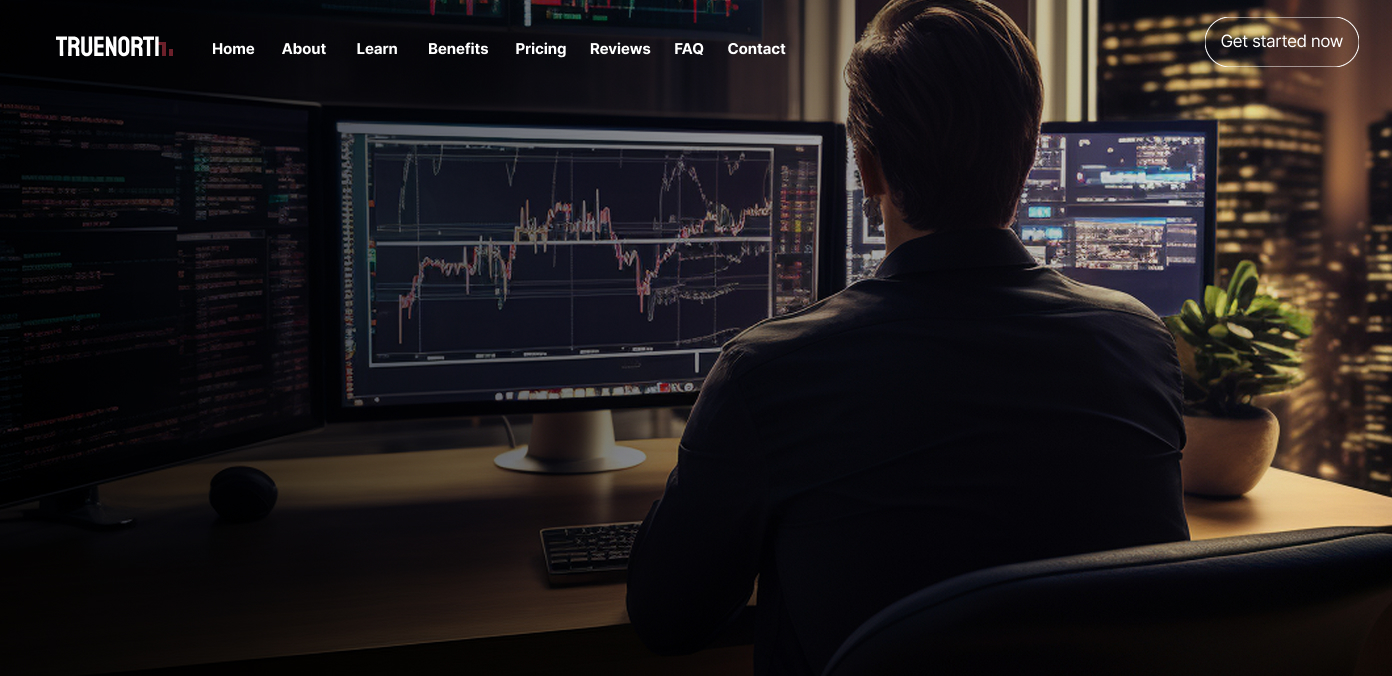
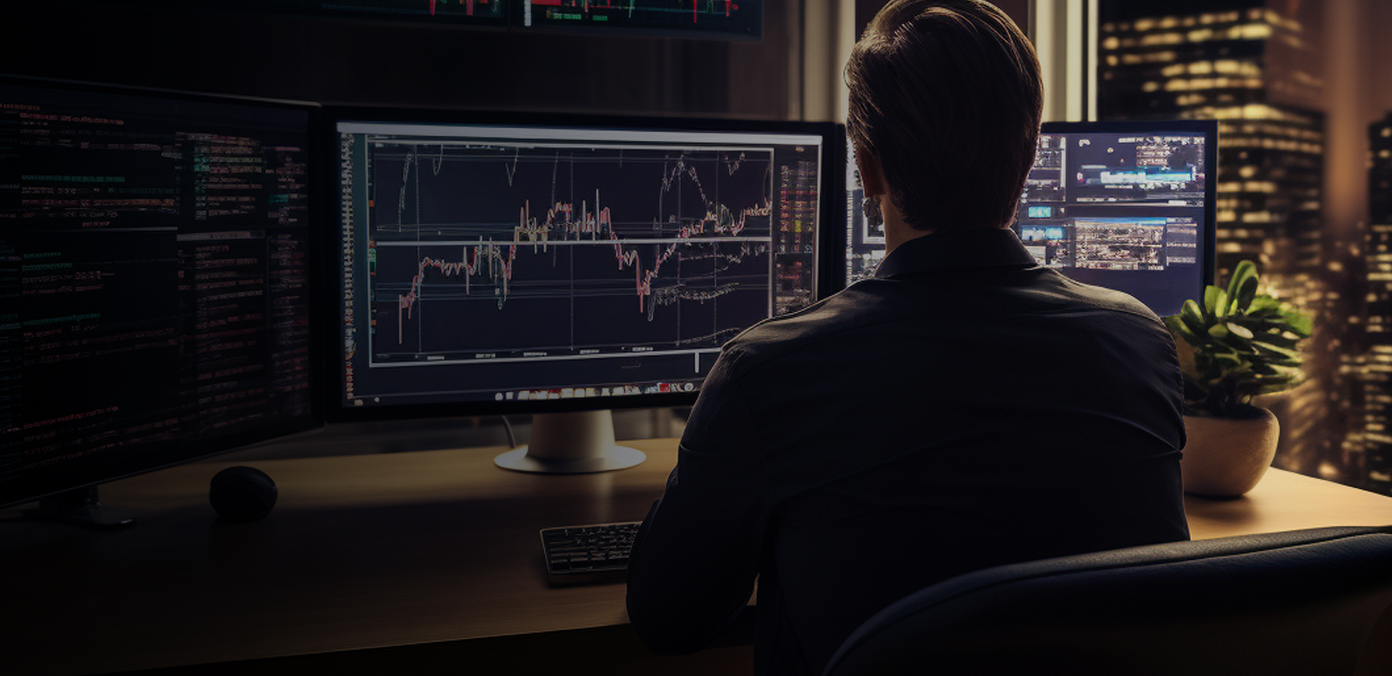
finished header and hero desctop

diff --git a/index.html b/index.html
@@ -25,9 +25,57 @@
 
 <body>
   <header>
-    <div class="container">
+    <div class="header-desc">
+      <div class="container">
+        <div class="header-desc-inner">
+          <div class="header-desc-top">
+            <div class="header-desc-leftside">
+              <img src="images/logo-white.png" alt="logo">
+              <nav class="nav-desc">
+                <ul>
+                  <li><a href="#">Home</a></li>
+                  <li><a href="#about">About</a></li>
+                  <li><a href="#learn">Learn</a></li>
+                  <li><a href="#benefits">Benefits</a></li>
+                  <li><a href="#pricing">Pricing</a></li>
+                  <li><a href="#reviews">Reviews</a></li>
+                  <li><a href="#faq">FAQ</a></li>
+                  <li><a href="#contact">Contact</a></li>
+                </ul>
+              </nav>
+            </div>
 
-      <div class="header-inner">
+            <a href="#contact" class="header-desc-btn">Get started now</a>
+          </div>
+
+          <div class="header-desc-bottom">
+            <h2 class="header-desc-title">Master Trading with<br>Confidence & Clarity</h2>
+            <p class="header-desc-text">Learn how to trade responsibly through expert-led videos and webinars.<br>Purely
+              educational, no financial advice.</p>
+            <a href="#contact" class="header-desc-button" onmouseover="changeImage(this)"
+              onmouseout="restoreImage(this)">
+              <span>Start Learning Now</span>
+              <img src="images/hero/hero-btn-img.png" alt="Start learning button">
+            </a>
+
+
+            <div class="header-desc-bottom-info">
+              <p class="header-desc-bottom-item">
+                🔒Secure Payments via Stripe
+              </p>
+              <p class="header-desc-bottom-item">
+                Canadian-based Company
+              </p>
+              <p class="header-desc-bottom-item">
+                🎯No Advice, Education Only
+              </p>
+            </div>
+          </div>
+        </div>
+      </div>
+    </div>
+    <div class="container">
+      <div class="header-inner-mob">
 
         <nav>
           <img class="logo" src="images/logo.svg" alt="logo">
@@ -63,7 +111,7 @@
     <section class="hero">
       <div class="container">
         <div class="hero-inner">
-          <h2 class="hero-title">Master Trading with Confidence & Clarity</h2>
+          <h2 class="hero-title">Master Trading with<br>Confidence & Clarity</h2>
           <p class="hero-text">Learn how to trade responsibly through expert-led videos and webinars. Purely
             educational, no financial advice.</p>
           <button class="hero-button">
@@ -119,7 +167,7 @@
       </div>
     </section>
 
-    <section class="learn">
+    <section class="learn" id="learn">
       <div class="container">
         <div class="learn-inner">
           <h2>What <span>You'll Learn</span></h2>
@@ -187,7 +235,7 @@
       </div>
     </section>
 
-    <section class="benefits">
+    <section class="benefits" id="benefits">
       <div class="container">
         <div class="benefits-inner">
           <div class="benefits-light-card">
@@ -295,7 +343,7 @@
       </div>
     </section>
 
-    <section class="pricing">
+    <section class="pricing" id="pricing">
       <div class="container">
         <div class="pricing-inner">
           <h2 class="pricing-title">Clear, Transparent Pricing</h2>
@@ -390,7 +438,7 @@
       </div>
     </section>
 
-    <section class="reviews">
+    <section class="reviews" id="reviews">
       <div class="container">
         <div class="reviews-inner">
           <h2 class="reviews-title">Student Testimonials</h2>
@@ -458,7 +506,7 @@
       </div>
     </section>
 
-    <section class="faq">
+    <section class="faq" id="faq">
       <div class="container">
 
         <div class="faq-inner">
@@ -516,7 +564,7 @@
       </div>
     </section>
 
-    <section class="contact">
+    <section class="contact" id="contact">
       <div class="container">
         <div class="contact-inner">
           <div class="contact-top">
@@ -577,7 +625,7 @@
         capital you can afford to lose. We are not a licensed broker or financial advisor.
       </p>
     </div>
-    
+
 
     <div class="footer-links">
       <a href="#" class="footer-link">Privacy Policy</a>

diff --git a/styles.css b/styles.css
@@ -3,6 +3,7 @@
   padding: 0;
   box-sizing: border-box;
   overflow-x: hidden;
+  scroll-behavior: smooth;
 }
 
 body {
@@ -12,10 +13,144 @@ body {
   margin: 0;
 }
 
+
+
 header {
   background-color: #efe9e1;
 
   overflow-x: hidden;
+}
+
+.header-desc-leftside {
+  display: flex;
+  gap: 39px;
+  align-items: center;
+}
+
+.header-desc {
+  padding-top: 17px;
+  display: block;
+  background-image: url(images/Hero.jpg);
+  background-position: center;
+  /* aspect-ratio: 2/1; */
+  padding-bottom: 29px;
+}
+
+.nav-desc {
+  display: flex;
+  align-items: center;
+  background: none;
+
+  padding: 0;
+  margin: 0;
+}
+
+.nav-desc ul {
+  display: flex;
+  align-items: center;
+  gap: 36px;
+  margin: 0;
+}
+.nav-desc a {
+  font-weight: 700;
+  font-size: 15px;
+  color: #ffffff;
+  text-decoration: none;
+}
+
+.header-desc-btn {
+  border: 1px solid #ffffff;
+  border-radius: 40px;
+  color: #ffffff;
+  font-weight: 400;
+  font-size: 17px;
+  text-align: center;
+  padding-block: 16px;
+  width: 154px;
+  text-decoration: none;
+}
+
+.header-desc-btn:hover {
+  background-color: #ff081f2b;
+}
+
+.header-desc-bottom {
+  color: #ffffff;
+  padding-left: 80px;
+}
+.header-desc-title {
+  font-weight: 800;
+  font-size: 70px;
+  margin-bottom: 16px;
+}
+
+.header-desc-text {
+  font-weight: 400;
+  font-size: 19px;
+  margin-bottom: 34px;
+}
+
+.header-desc-button {
+  background-color: #ffffff;
+  width: 260px;
+  display: flex;
+  align-items: center;
+  justify-content: center;
+  gap: 10px;
+  border-radius: 40px;
+  padding-block: 10px;
+  border: none;
+  outline: none;
+
+  font-weight: 400;
+  font-size: 17px;
+  color: #000000;
+  text-decoration: none;
+  margin-bottom: 66px;
+}
+
+.header-desc-button img {
+  width: 24px;
+  height: 24px;
+}
+
+.header-desc-button:hover {
+  color: #ffffff;
+  background-color: #ff081f2b;
+}
+
+.header-desc-bottom-info {
+  display: flex;
+  justify-content: space-around;
+  align-items: center;
+  background-color: #ff081f2b;
+  padding-block: 20px;
+  border-radius: 40px;
+}
+
+.header-desc-bottom-item {
+  margin: 0;
+}
+
+.header-desc-bottom-item:nth-child(2) {
+  padding-inline: 106px;
+  border-left: 1px solid #ffffff;
+  border-right: 1px solid #ffffff;
+}
+
+.header-inner-mob {
+  display: none;
+}
+
+.header-desc-top {
+  display: flex;
+  justify-content: space-between;
+  align-items: center;
+  margin-bottom: 113px;
+}
+
+.hero {
+  display: none;
 }
 
 nav {
@@ -68,7 +203,7 @@ nav {
   color: #a3a3a3;
 }
 
-.hero {
+/* .hero {
   background-size: cover;
   background-position: center;
   display: flex;
@@ -81,7 +216,7 @@ nav {
   text-align: center;
   color: white;
   max-width: 800px;
-}
+} */
 
 .hero h2 {
   font-size: 36px;
@@ -110,12 +245,16 @@ nav {
 
 /* Mobile View */
 @media screen and (max-width: 768px) {
+  .header-desc {
+    display: none;
+  }
   .container {
     padding-inline: 8px;
     margin: 0 auto;
   }
 
-  .header-inner {
+  .header-inner-mob {
+    display: block;
     width: 100%;
     position: relative;
   }
@@ -194,6 +333,7 @@ nav {
   }
 
   .hero {
+    display: block;
     margin-bottom: 56px;
   }
 

diff --git a/app.js b/app.js
@@ -20,3 +20,14 @@ for (let i = 0; i < acc.length; i++) {
     }
   });
 }
+
+function changeImage(button) {
+  const img = button.querySelector("img");
+  img.src = 'images/hero/hero-btn-img-white.png';  // змінюємо на картинку для ховера
+}
+
+function restoreImage(button) {
+  const img = button.querySelector("img");
+  img.src = "images/hero/hero-btn-img.png";  // повертаємо початкову картинку
+}
+
